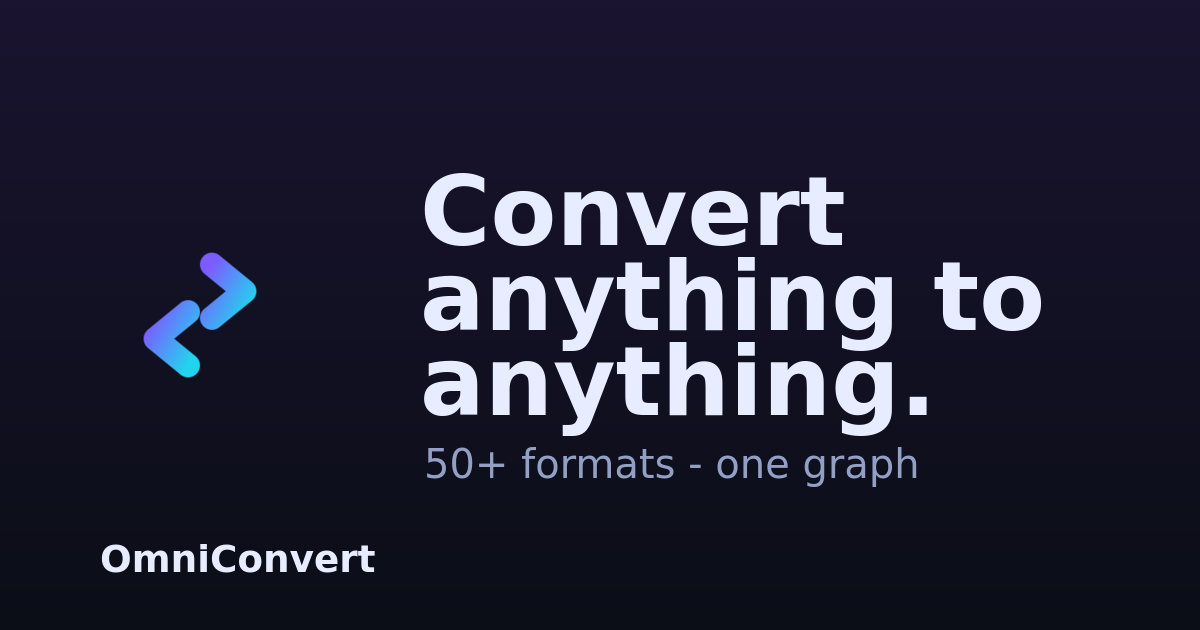
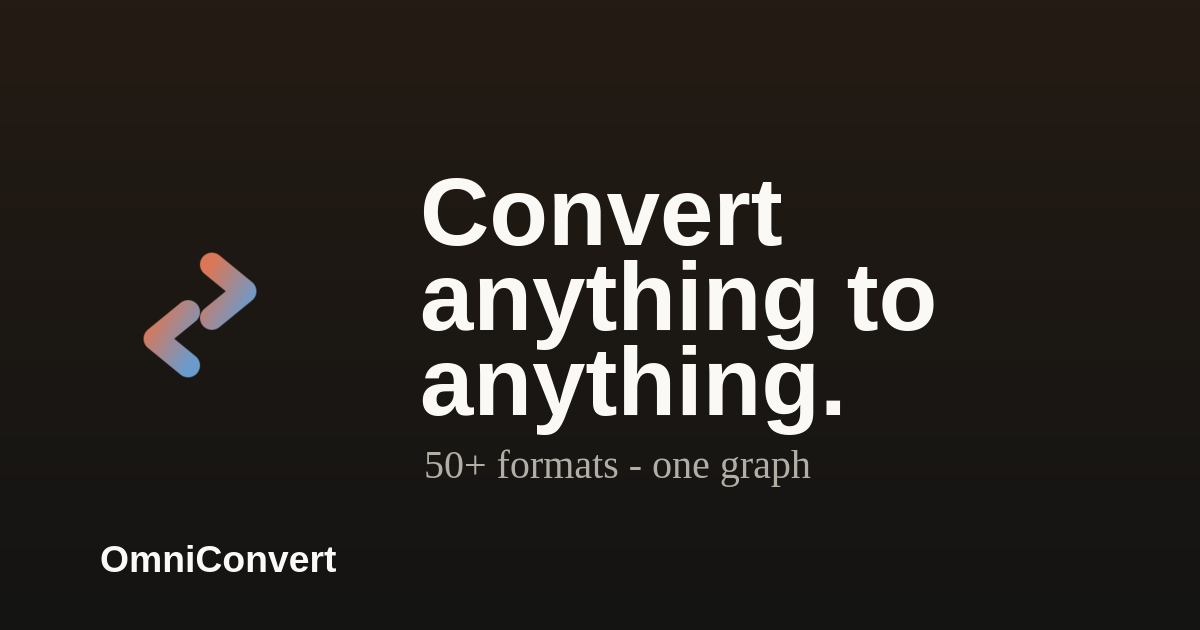
Cycle 8: Anthropic rebrand (uncurse the branding)
Warm neutrals (#141413/#FAF9F5/#B0AEA5/#E8E6DC), Coral/Blue/Green
accents, Poppins display + Lora body (system fallbacks). Recolored
logo set, icons, OG card. CTA solid orange w/ dark text (5.90:1);
all pairs re-audited passing. Frontend rebuilt.

diff --git a/README.md b/README.md
@@ -100,7 +100,7 @@ PRs welcome — especially new adapters. MIT (see LICENSE).
 
 ---
 
-## Brand (MVP brand sprint, cycle 1)
+## Brand (Anthropic styling, cycle 8)
 
 **Positioning:** OmniConvert is the universal file converter for power users
 that routes every format through one conversion graph — unlike single-purpose
@@ -111,12 +111,12 @@ or gradient spheres. Assets in `brand/`: `logo.svg` (lockup), `mark.svg`
 (icon-only), `logo-mono.svg` (single-color), `favicon.svg` (16px-optimized),
 `tokens.css` (dark default + light mapping — the single source of truth).
 
-**Palette:** one accent `#7C5CFF` (violet, graphics/large type only),
-action violet `#6547F0` (white text = 5.66:1, buttons/links), cyan `#22D3EE`
-(gradient partner), on dark `#0B0E17/#12172A`, text `#E8ECFF` (16.41:1),
-muted `#93A0C4` (7.40:1). Borders `#5A6694` dark / `#6B87A3` light (≥3:1,
-inputs must be identifiable). Light muted `#55677E` (5.41:1). Type: Inter/
-system-ui + ui-monospace for code. Full audit: cycle 5 log below.
+**Palette (Anthropic):** Dark `#141413`, Light `#FAF9F5`, Mid Gray `#B0AEA5`,
+Light Gray `#E8E6DC`. Accents: Orange `#D97757` (primary), Blue `#6A9BCC`,
+Green `#788C5D`. CTA: solid orange, dark text (5.90:1). Borders Mid Gray
+(7.15:1 dark) / `#8F8D84` light (3.33:1). Light muted `#6E6C64` (4.99:1).
+Type: Poppins (Arial fallback) display, Lora (Georgia fallback) body,
+ui-monospace for code. Full audit: cycle 5 + 8 logs below.
 
 **Voice:** explain, don't sell. Errors state what + why + exact fix.
 Banned: revolutionary, seamless, next-generation, disrupt.
@@ -146,8 +146,9 @@ gradient only in mark, hero headline, progress bars.
 
 ## Changelog
 
+- **Unreleased (cycle 8):** Anthropic rebrand (palette, Poppins/Lora stacks,
+  recolored logo set, icons, OG card, CTA now solid orange).
 - **Unreleased (cycle 7):** live ffmpeg progress (`omni: 42% (00:01:12/…)`
-  on stderr; pure `-progress` parser with unit tests).
 - **Unreleased (cycle 6):** OG social card (`public/og-card.png`, meta tags).
 - **Unreleased (cycle 5):** contrast audit fixes (action violet, visible
   input borders, light muted darkened — all pairs now pass).
@@ -165,6 +166,12 @@ gradient only in mark, hero headline, progress bars.
 
 ## Improvement log
 
+- **Cycle 8 — 2026-09-23 (Anthropic rebrand):** applied the brand-guidelines
+  skill across every surface: warm neutrals, Coral/Blue/Green accents, Poppins
+  display + Lora body (Liberation fallbacks where the fonts aren't installed).
+  Recolored logo set, icons, OG card; CTA is now solid orange with dark text
+  (white-on-orange fails at 3.12:1); all token pairs re-audited and passing.
+  Frontend rebuilt. Uncursed.
 - **Cycle 7 — 2026-09-23 (live progress):** ffmpeg jobs ran silent. Added
   `adapters/ffmpeg_progress.rs` (pure `-progress`/`Duration:` parser, 4 unit
   tests) + streaming runner (`-progress pipe:1`, 3-field percent lines on
